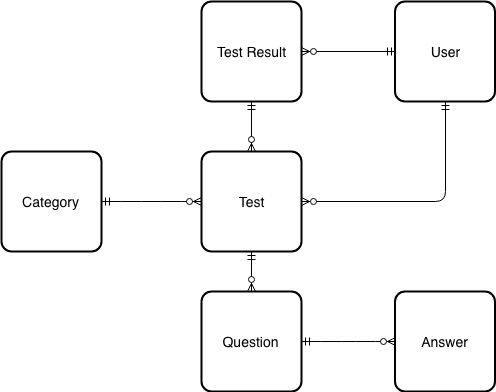
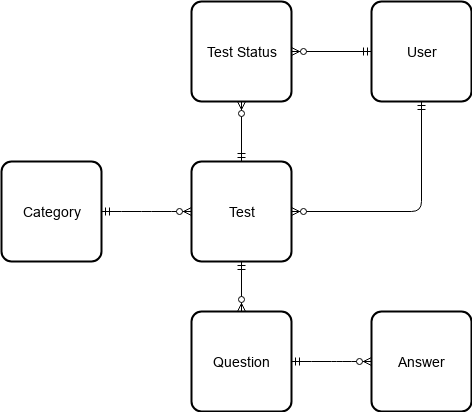
some fixes: new diagram and new migration for model Question

diff --git a/test-guru/db/schema.rb b/test-guru/db/schema.rb
@@ -10,7 +10,7 @@
 #
 # It's strongly recommended that you check this file into your version control system.
 
-ActiveRecord::Schema.define(version: 2018_11_11_192948) do
+ActiveRecord::Schema.define(version: 2018_11_13_141144) do
 
   create_table "answers", force: :cascade do |t|
     t.text "body", null: false
@@ -29,10 +29,20 @@ ActiveRecord::Schema.define(version: 2018_11_11_192948) do
 
   create_table "questions", force: :cascade do |t|
     t.text "body", null: false
-    t.integer "test_id"
+    t.integer "test_id", null: false
     t.datetime "created_at", null: false
     t.datetime "updated_at", null: false
     t.index ["test_id"], name: "index_questions_on_test_id"
+  end
+
+  create_table "test_results", force: :cascade do |t|
+    t.boolean "completed"
+    t.integer "user_id"
+    t.integer "test_id"
+    t.datetime "created_at", null: false
+    t.datetime "updated_at", null: false
+    t.index ["test_id"], name: "index_test_results_on_test_id"
+    t.index ["user_id"], name: "index_test_results_on_user_id"
   end
 
   create_table "test_statuses", force: :cascade do |t|

diff --git a/test-guru/db/migrate/20181113141144_add_null_constraints_for_question.rb b/test-guru/db/migrate/20181113141144_add_null_constraints_for_question.rb
@@ -1,0 +1,5 @@
+class AddNullConstraintsForQuestion < ActiveRecord::Migration[5.2]
+  def change
+    change_column_null(:questions, :test_id, false)
+  end
+end
